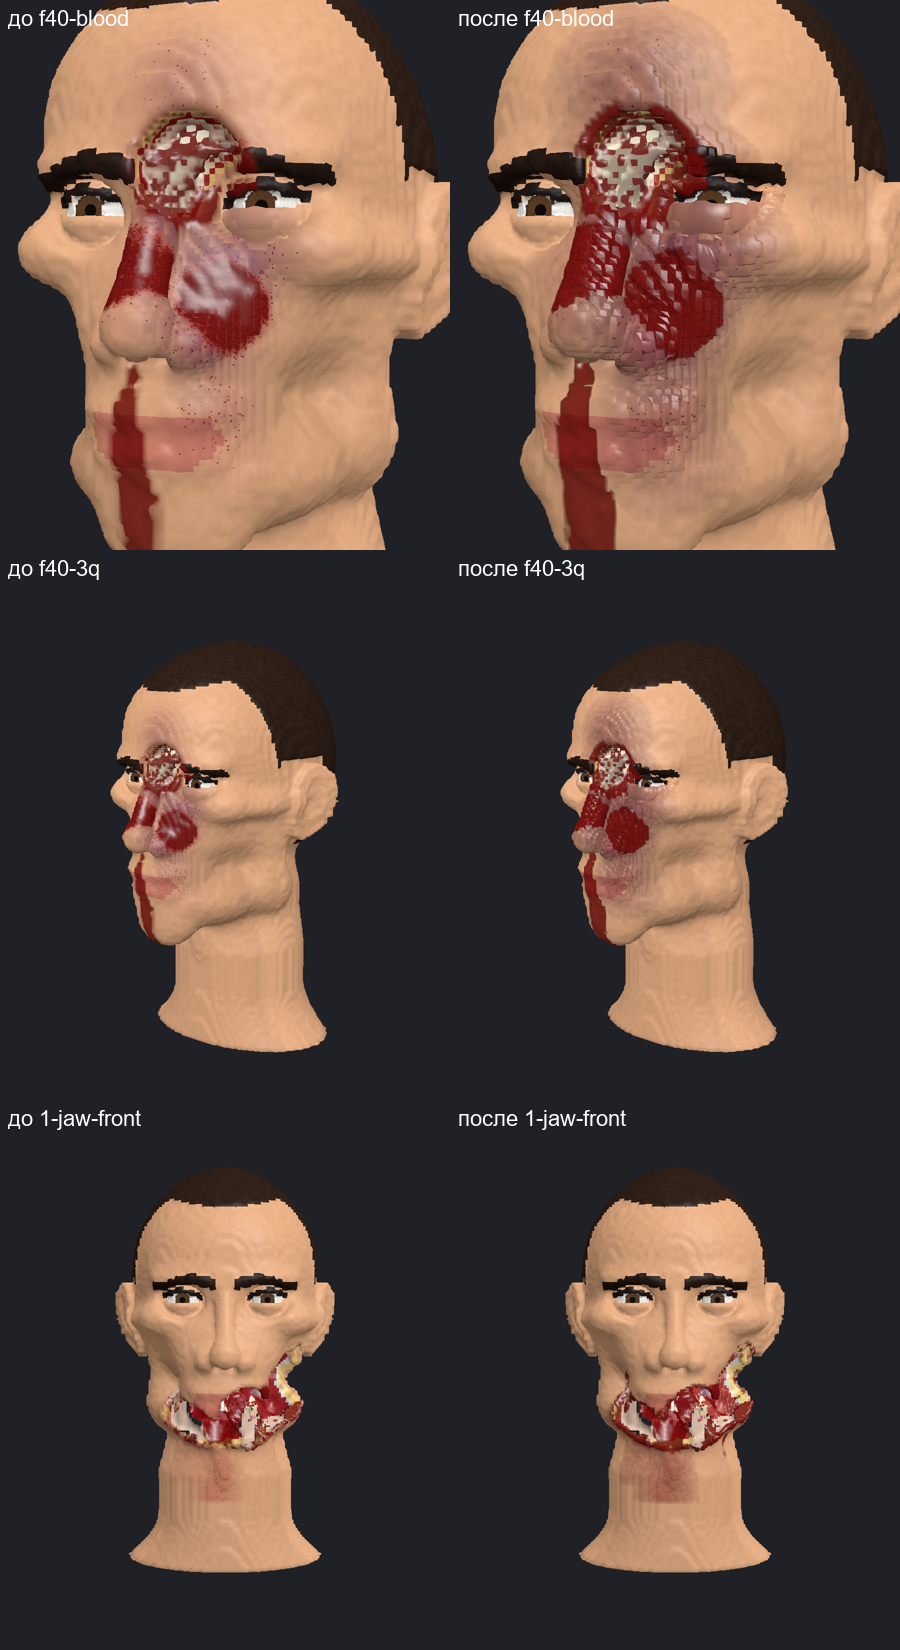
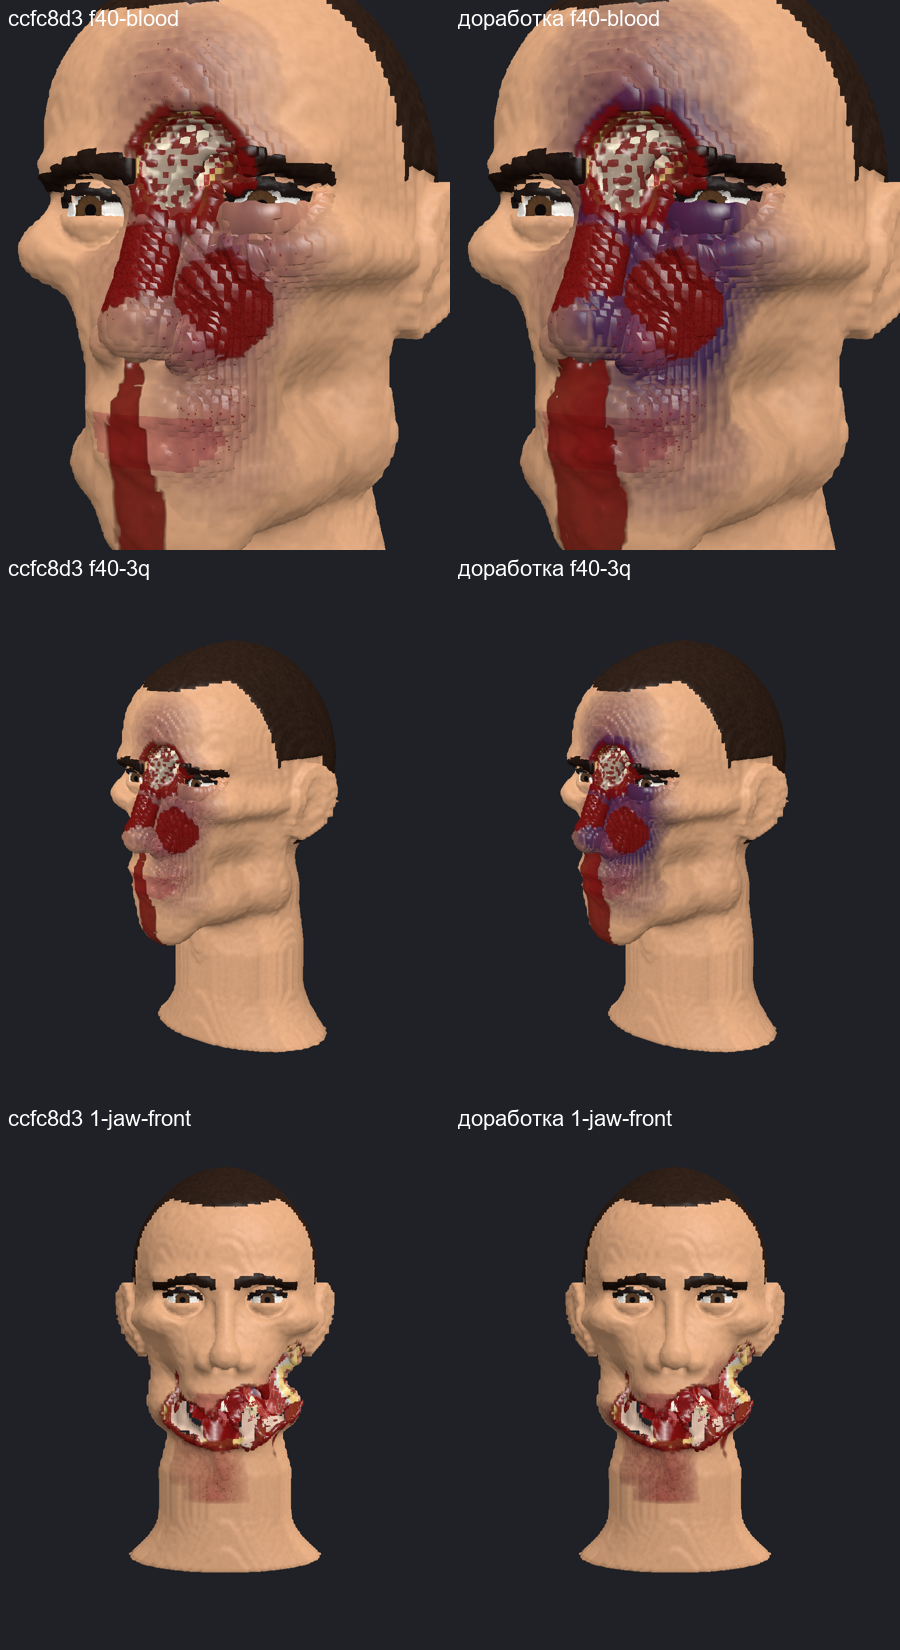
Этап B, часть 5, доработка: синяк шире пятна удара и растекание крови в модели
Синяк кольцом вокруг пятна с затуханием, кровь подтёка расходится вбок и вниз
(хеш координат, rng не тронут, предел MaxSpread = 12 000 ячеек). Seed 77: 78 ударов,
культя 51 928, куски 75 212; свод 157 850, полголовы 156 238. Тесты 44/0/0.

diff --git a/Unity/Assets/Probe/Runtime/Anatomy/AnatDamage.cs b/Unity/Assets/Probe/Runtime/Anatomy/AnatDamage.cs
@@ -196,6 +196,15 @@ namespace VoxProbe
         // ---------- удар ----------
         static readonly List<(int i, int x, int y, int z, float p)> PL = new List<(int, int, int, int, float)>();
         static readonly List<int3> FAIL = new List<int3>();
+        // часть 5, доработка: синяк шире пятна — квадрат расстояния до оси пятна у ячеек PL и кольцо кожи вокруг пятна
+        static readonly List<float> PR = new List<float>();
+        static readonly List<(int x, int y, int z, float r2)> RING = new List<(int, int, int, float)>();
+        /// Предел ячеек, которые кровь смачивает растеканием вбок за бой (MaxSpread); счётчик — spreadCells.
+        public const int MaxSpread = 12000;
+        public int spreadCells;
+        /// Выключатель доработки (синяк шире пятна и растекание крови) — для замера «до / после» в одном коде; по умолчанию включено.
+        public static bool Wide = true;
+        static float H3(int x, int y, int z) { uint q = (uint)(x * 73856093 ^ y * 19349663 ^ z * 83492791); q ^= q >> 13; q *= 0x5bd1e995; q ^= q >> 15; return (q & 0xFFFF) / 65536f; }
 
         /// Удар в точку p (см, рамка головы) по направлению dir, сила E в единицах веба (джеб ≈ 1, мощный 3,4–4,6).
         public HitInfo Hit(float3 p, float3 dir, float E, bool power)
@@ -231,7 +240,7 @@ namespace VoxProbe
             float3 l = math.normalize(-n * 0.7f + dir * 0.3f);          // ось пятна — внутрь
             float Rc = (power ? 2.4f : 1.7f) / S, R2 = Rc * Rc * 2.1f, hs = 1.4f / S;
             int R = (int)math.ceil(Rc * 1.5f + 2);
-            PL.Clear(); FAIL.Clear();
+            PL.Clear(); FAIL.Clear(); PR.Clear(); RING.Clear(); float Ro2 = Rc * Rc * 2.9f;
             float best = 0; byte zone = h.zone[h.Index(hc.x, hc.y, hc.z)];
             for (int dz = -R; dz <= R; dz++) for (int dy = -R; dy <= R; dy++) for (int dx = -R; dx <= R; dx++)
             {
@@ -239,10 +248,11 @@ namespace VoxProbe
                 int i = h.Index(x, y, z); byte m = h.mat[i];
                 if (!AnatMat.Cull(m) || m == AnatMat.Covered) continue;
                 float al = -(dx * l.x + dy * l.y + dz * l.z); if (al < -hs) continue;
-                float px = dx + al * l.x, py = dy + al * l.y, pz = dz + al * l.z, pr2 = px * px + py * py + pz * pz; if (pr2 > R2) continue;
+                float px = dx + al * l.x, py = dy + al * l.y, pz = dz + al * l.z, pr2 = px * px + py * py + pz * pz;
+                if (pr2 > R2) { if (pr2 <= Ro2 && al < hs && Surface(m) && Exposed(x, y, z)) RING.Add((x, y, z, pr2)); continue; }
                 if (!Exposed(x, y, z)) continue;
-                float pp = math.exp(-pr2 / (Rc * Rc) * 1.4f) * math.min(1.5f, 1 + al / hs); if (pp < 0.04f) continue;
-                PL.Add((i, x, y, z, pp));
+                float pp = math.exp(-pr2 / (Rc * Rc) * 1.4f) * math.min(1.5f, 1 + al / hs); if (pp < 0.04f) { if (Surface(m)) RING.Add((x, y, z, pr2)); continue; }
+                PL.Add((i, x, y, z, pp)); PR.Add(pr2);
                 if (pp > best && h.zone[i] != 0) { best = pp; zone = h.zone[i]; }
             }
             AnatProf.Lap(AnatProf.Spot);
@@ -286,6 +296,22 @@ namespace VoxProbe
                 else if (AnatMat.Class(m) == AnatMat.ClsBone)
                 {
                     float ba = Ep * 15; v.blt = Wt(v.blt, v.blood, now, ba); v.blood = Add8(v.blood, ba); Put(q.x, q.y, q.z, v);
+                }
+            }
+            // часть 5, доработка: синяк шире пятна удара — плоский профиль до ~1,7 Rc с затуханием к краю (кожа, волосы)
+            if (Wide)
+            {
+                float eb = E * (power ? 1 : 0.5f) * 11f, r0 = Rc * 0.9f, r1 = Rc * 1.7f;
+                for (int k = 0; k < PL.Count; k++)
+                {
+                    var q = PL[k]; if (!Surface(h.mat[q.i])) continue;
+                    float a = eb * (1 - math.smoothstep(r0, r1, math.sqrt(PR[k]))); if (a < 0.5f) continue;
+                    var v = Get(q.x, q.y, q.z); v.bt = Wt(v.bt, v.bruise, now, a); v.bruise = Add8(v.bruise, a); Put(q.x, q.y, q.z, v);
+                }
+                foreach (var q in RING)
+                {
+                    float a = eb * (1 - math.smoothstep(r0, r1, math.sqrt(q.r2))) * (0.7f + 0.3f * H3(q.x, q.y, q.z)); if (a < 0.5f) continue;
+                    var v = Get(q.x, q.y, q.z); v.bt = Wt(v.bt, v.bruise, now, a); v.bruise = Add8(v.bruise, a); Put(q.x, q.y, q.z, v);
                 }
             }
             AnatProf.Lap(AnatProf.Apply);
@@ -612,6 +638,7 @@ namespace VoxProbe
         {
             byte m0 = M(d.x, d.y, d.z); if (!AnatMat.Cull(m0) || m0 == AnatMat.Covered) return false;
             var v = Get(d.x, d.y, d.z); float ba = 20 + d.vol * 3; v.blt = Wt(v.blt, v.blood, now, ba); v.blood = Add8(v.blood, ba); Put(d.x, d.y, d.z, v);
+            if (Wide && spreadCells < MaxSpread) Spread(d, ba, now);
             if (--d.vol <= 0) return false;
             float best = 0.12f; int3 bc = new int3(-1);
             for (int c = -1; c <= 1; c++) for (int b = -1; b <= 1; b++) for (int a2 = -1; a2 <= 1; a2++)
@@ -630,6 +657,25 @@ namespace VoxProbe
             }
             d.px = d.x; d.py = d.y; d.pz = d.z; d.x = bc.x; d.y = bc.y; d.z = bc.z;
             return true;
+        }
+
+        /// Часть 5, доработка: кровь подтёка расходится вбок и вниз по открытой поверхности (радиус 1–3 ячейки по объёму потока),
+        /// неровно — пропуски и вес по хешу координат (rng не трогается). Предел — MaxSpread новых ячеек за бой.
+        void Spread(Drip d, float ba, byte now)
+        {
+            int rw = d.vol > 18 ? 3 : d.vol > 6 ? 2 : 1;
+            for (int c = -rw; c <= rw; c++) for (int b = -rw; b <= rw; b++) for (int a2 = -rw; a2 <= rw; a2++)
+            {
+                if (a2 == 0 && b == 0 && c == 0) continue;
+                int xx = d.x + a2, yy = d.y + b, zz = d.z + c; if (!In(xx, yy, zz)) continue;
+                float len = math.sqrt(a2 * a2 + b * b + c * c), up = (a2 * grav.x + b * grav.y + c * grav.z) / len;
+                if (up < -0.35f) continue;   // вверх по стене кровь не идёт
+                float hh = H3(xx, yy, zz); if (hh < 0.15f) continue;
+                byte m = M(xx, yy, zz); if (!AnatMat.Cull(m) || m == AnatMat.Covered || !Exposed(xx, yy, zz)) continue;
+                float w = (1 - len / (rw + 1.5f)) * (0.5f + 0.5f * hh) * (up > 0.3f ? 1.1f : 0.85f);
+                var u = Get(xx, yy, zz); if (u.blood == 0) { if (spreadCells >= MaxSpread) return; spreadCells++; }
+                u.blt = Wt(u.blt, u.blood, now, ba * w); u.blood = Add8(u.blood, ba * w); Put(xx, yy, zz, u);
+            }
         }
 
         // ---------- глаз ----------

diff --git a/Unity/Assets/Probe/Editor/AnatShotsB5.cs b/Unity/Assets/Probe/Editor/AnatShotsB5.cs
@@ -48,8 +48,10 @@ namespace VoxProbe.Editor
             Grab(name);
         }
 
+        static bool noShots;
         static void Grab(string name)
         {
+            if (noShots) return;
             Shader.SetGlobalFloat("_AnatTime", v.sim.time);
             cam.Render();
             RenderTexture.active = rt;
@@ -159,8 +161,10 @@ namespace VoxProbe.Editor
             return sb.ToString();
         }
 
-        public static void Run(string tag)
+        /// wide = false — без доработки синяка и крови (AnatDamage.Wide), для замера «до» тем же кодом; shots = false — только числа.
+        public static void Run(string tag, bool wide = true, bool shots = true)
         {
+            AnatDamage.Wide = wide; noShots = !shots;
             dir = Path.Combine("Shots/anatomy-b5", tag); Directory.CreateDirectory(dir);
             var sb = new StringBuilder("{\n");
             Scene();
@@ -170,14 +174,14 @@ namespace VoxProbe.Editor
             v = new AnatView(null, new Vector3(0, 1.6f, 0), AnatShots.EnsureMaterial());
             sb.Append("  \"stages\": [\n");
             var stages = Stages(v); var rnd = new Unity.Mathematics.Random(77);
-            int hitsAll = 0, fr0 = 0;
+            int hitsAll = 0, fr0 = 0; var clk = new System.Diagnostics.Stopwatch(); var hitMs = new List<double>(); var tickMs = new List<double>();
             foreach (var st in stages)
             {
                 int k = 0;
                 for (; k < st.max && !st.done(v); k++)
                 {
-                    if (Strike(v, st.where, ref rnd)) hitsAll++;
-                    for (int f = 0; f < 3; f++) v.Tick(1 / 30f, 12);
+                    clk.Restart(); if (Strike(v, st.where, ref rnd)) hitsAll++; hitMs.Add(clk.Elapsed.TotalMilliseconds);
+                    for (int f = 0; f < 3; f++) { clk.Restart(); v.Tick(1 / 30f, 12); tickMs.Add(clk.Elapsed.TotalMilliseconds); }
                 }
                 v.Settle(); for (int f = 0; f < 60; f++) v.Tick(1 / 30f, 64); v.Settle();
                 sb.Append("    {\"stage\": \"").Append(st.name).Append("\", \"hits\": ").Append(k).Append(", \"tris\": ").Append(v.Triangles)
@@ -192,6 +196,9 @@ namespace VoxProbe.Editor
                 if (st.name == "5-stump") { Shot(st.name + "-top", -15, 70, 0.4f, new float3(0, -10.5f, 0)); Shot(st.name + "-close", -25, 55, 0.25f, new float3(0, -10.5f, -1)); }
             }
             sb.Length -= 2; sb.Append("\n  ],\n");
+            hitMs.Sort(); tickMs.Sort();
+            sb.Append("  \"hitMs\": {\"median\": ").Append(F(hitMs[hitMs.Count / 2])).Append(", \"worst\": ").Append(F(hitMs[hitMs.Count - 1]))
+              .Append("}, \"tickMs\": {\"median\": ").Append(F(tickMs[tickMs.Count / 2])).Append(", \"worst\": ").Append(F(tickMs[tickMs.Count - 1])).Append("}, \"spreadCells\": ").Append(v.sim.spreadCells).Append(",\n");
             sb.Append("  \"hits\": ").Append(hitsAll).Append(", \"stumpTris\": ").Append(v.Triangles).Append(", \"pieceTris\": ").Append(v.PieceTriangles).Append(",\n");
             sb.Append("  \"fractureList\": [");
             foreach (var f in v.sim.fractures) sb.Append("[").Append(F(f.x)).Append(", ").Append(F(f.y)).Append(", ").Append(F(f.z)).Append("], ");
@@ -199,6 +206,7 @@ namespace VoxProbe.Editor
             sb.Append("]\n}\n");
             File.WriteAllText(Path.Combine(dir, "b5.json"), sb.ToString());
             v.Dispose(); v = null; rt.Release(); rtBig.Release();
+            AnatDamage.Wide = true; noShots = false;
             Debug.Log("ANAT_B5_OK " + tag);
         }
     }

diff --git a/Unity/Shots/anatomy-b5/sheet.py b/Unity/Shots/anatomy-b5/sheet.py
@@ -26,6 +26,16 @@ for tag in ("before", "after"):
     src = os.path.join(D, tag)
     if not os.path.isdir(src): continue
     grid([tile(os.path.join(src, n + ".png"), 360, tag + " " + n) for n in SHEET], 5).save(os.path.join(D, "sheet-" + tag + ".png"))
+# python sheet.py after after2 — пары синяка и крови «ccfc8d3 / доработка» и общий кадр боя
+if len(sys.argv) == 3:
+    a, b = sys.argv[1], sys.argv[2]
+    for name in ("1-bruise-swell", "2-blood"):
+        ims = []
+        for n in PAIRS[name]: ims += [tile(os.path.join(D, a, n + ".png"), 450, "ccfc8d3 " + n), tile(os.path.join(D, b, n + ".png"), 450, "доработка " + n)]
+        grid(ims, 2).save(os.path.join(D, "pair-" + name + ".png"))
+    ims = [tile(os.path.join(D, t, n + ".png"), 450, l + " " + n) for t, l in ((a, "ccfc8d3"), (b, "доработка")) for n in ("f15-front", "f40-3q", "f70-front")]
+    grid(ims, 3).save(os.path.join(D, "fight-distance.png"))
+    sys.exit()
 if os.path.isdir(os.path.join(D, "after")):
     for name, shots in PAIRS.items():
         ims = []

diff --git a/Unity/ANATOMY-B.md b/Unity/ANATOMY-B.md
@@ -398,3 +398,45 @@
 - **Синяк шире пятна удара** — то же: нужно писать синяк в кольцо ячеек вокруг пятна (модель), иначе виден только диск удара под ссадиной.
 - **Различимые отдельные мышцы на культе** — в вершине нет номера части (`part`), только материал; нужен канал в вершине (20 → 24 байта) или фасции между мышцами в построителе.
 - **Стоимость шейдера** — +0,3…0,9 мс в редакторе на ПК; для телефона стоит сделать упрощённый вариант (ключевое слово без шума мозга и трещин) и замерить на APK.
+
+## Часть 5, доработка: кровь и синяк в модели (24.11.2026)
+
+Руслан разрешил менять модель и число треугольников. Правки в `AnatDamage.cs`, существующий `rng` не тронут (новый разброс — хеш координат `H3`). Выключатель `AnatDamage.Wide` (по умолчанию включён) нужен только для замера «до / после» в одном коде.
+
+### Что изменено
+
+1. **Синяк шире пятна удара.** После записи урона в `Hit`: кожа пятна получает добавочный синяк с плоским профилем (`E·11`, полный до 0,9 Rc, к 1,7 Rc сходит на нет). Кожа в кольце за краем пятна (те же ячейки коробки, что уже обходил удар: не дальше 1,7 Rc от оси, открытые, кожа или волосы) получает синяк с тем же затуханием и разбросом ±30 % по хешу. Новых проходов нет: кольцо собирается в том же цикле, что и пятно (`RING`).
+2. **Кровь вширь.** На каждом шаге подтёка (`StepDrip`) кровь расходится вбок и вниз по открытой поверхности (`Spread`): радиус 1–3 ячейки по объёму потока, вверх по стене не идёт, ~15 % ячеек пропускается по хешу (неровный край), вниз больше, чем вбок. Предел — `MaxSpread` = 12 000 новых ячеек с кровью за бой (`spreadCells`). Так как поток у раны полный, у раны получается пятно, ниже — расширяющийся потёк.
+
+### Числа (seed 77, три прогона подряд одинаковы)
+
+| | ccfc8d3 | стало |
+|---|---|---|
+| ударов до культи | 78 | 78 |
+| треуг. головы: челюсть / лицо / свод / полголовы / культя | 147 880 / 149 586 / 157 846 / 156 224 / 51 928 | 147 880 / 149 586 / 157 850 / 156 238 / 51 928 |
+| треуг. кусков по стадиям | 6 476 / 10 928 / 10 928 / 18 124 / 75 212 | то же |
+| сцена «бой» (10 средних ударов, 70 с) | 133 168 | 133 192 |
+| ячеек с растёкшейся кровью (seed 77) | — | 1 829 из 12 000 |
+
+Прирост треугольников мал: в сценарии seed 77 мощные удары сразу рвут ткани, кровь и синяк лежат на уже неровной поверхности, а куски и культя от них не меняются. Удары до культи те же: добавочный синяк чуть ускоряет рассечение кожи (урон кожи растёт с синяком), но в этом сценарии ни одного порога не сдвинул.
+
+Время в редакторе (`AnatShotsB5.Run(..., shots: false)`, удар = `Strike` + `Hit`, `Tick` после удара), старый режим (`Wide = false`) и новый поочерёдно, 3 пары прогонов, медиана / худшее, мс:
+
+| | старый | новый |
+|---|---|---|
+| удар | 33,9 / 80,0; 30,6 / 71,9; 31,5 / 65,3 | 33,9 / 74,1; 35,7 / 87,5; 32,3 / 75,3 |
+| `Tick` | 13,2 / 45,5; 12,9 / 58,0; 13,1 / 50,8 | 14,2 / 55,6; 15,7 / 59,9; 13,4 / 52,4 |
+
+Машина загружена другими сессиями (те же прогоны днём шли на 21–25 мс медиана удара). Разница в пределах разброса: медиана удара +0…+5 мс, `Tick` +0,3…+2,7 мс, худшие пересекаются. Отдельно выигрыш/проигрыш меньше шума не выделить; на сборке IL2CPP не мерил.
+
+### Снимки и оценка
+
+«До» — `Shots/anatomy-b5/after` (ccfc8d3), «после» — `Shots/anatomy-b5/after2` (в Git только `b5.json`). Пары пересобраны как «ccfc8d3 / доработка»: `pair-1-bruise-swell.png`, `pair-2-blood.png`; общий кадр с расстояния боя — `fight-distance.png` (`python sheet.py after after2`).
+
+| пункт | итог |
+|---|---|
+| синяк | заметно: на 40 с вокруг ссадин скулы и брови виден фиолетовый ореол шириной в 1–2 см (кадры `3q` и крупный), на 70 с — зеленовато-жёлтый; на 15 с — слабо, красноватый тон почти сливается с покраснением |
+| отёк | слабо: вздутие под глазом и на скуле видно в крупном кадре, с расстояния боя — едва |
+| кровь вширь | заметно, но умеренно: потёк из носа к 70 с вдвое шире и расходится у губы и подбородка; это всё ещё поток вниз, а не широкое пятно по щеке |
+
+Тесты `VoxProbe.Tests.Anatomy`: 44 / 0 / 0 (65 с). Опорных чисел сценария в тестах нет, ожидаемые значения править не пришлось.
